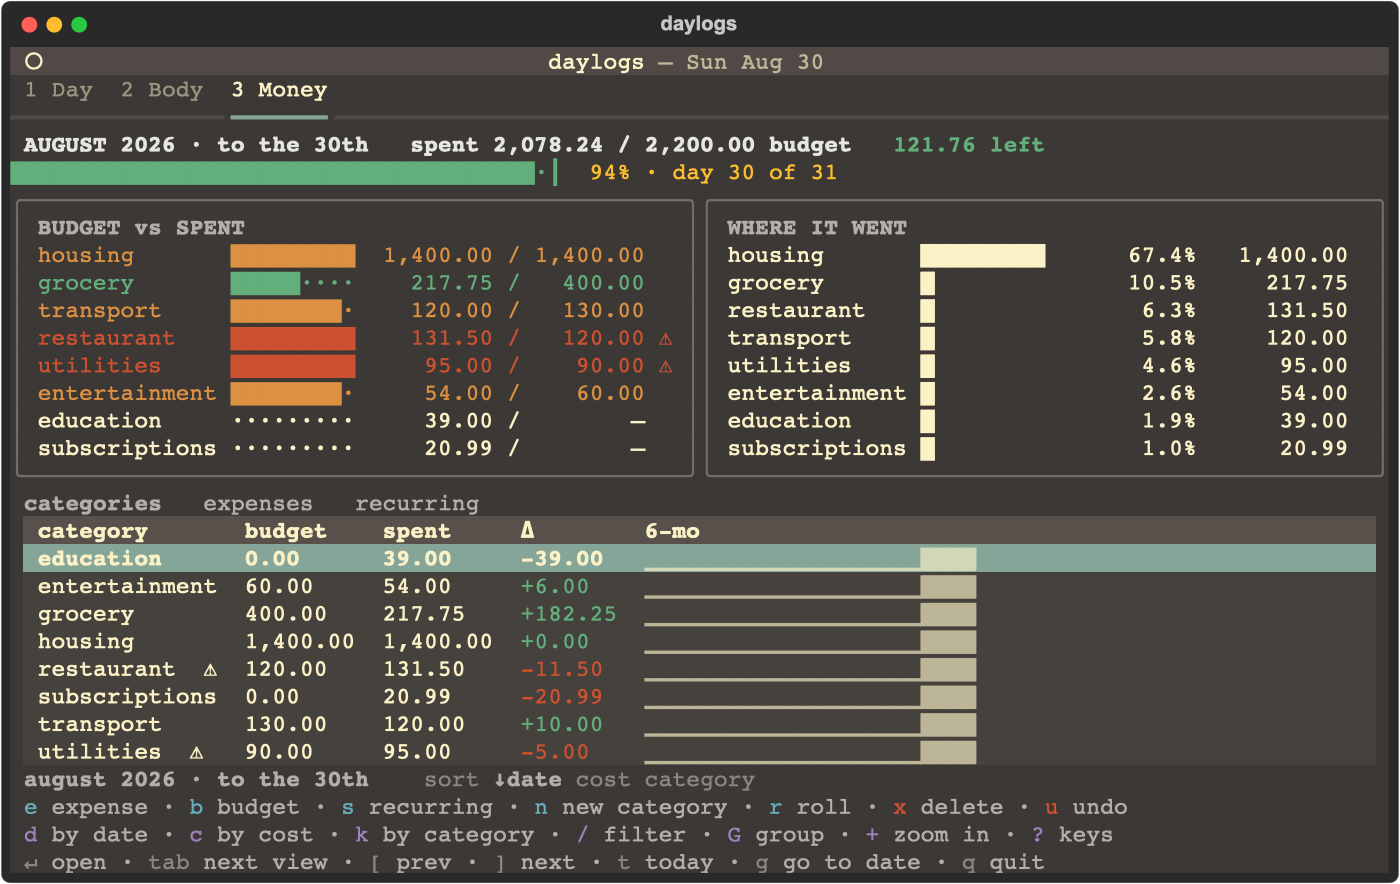
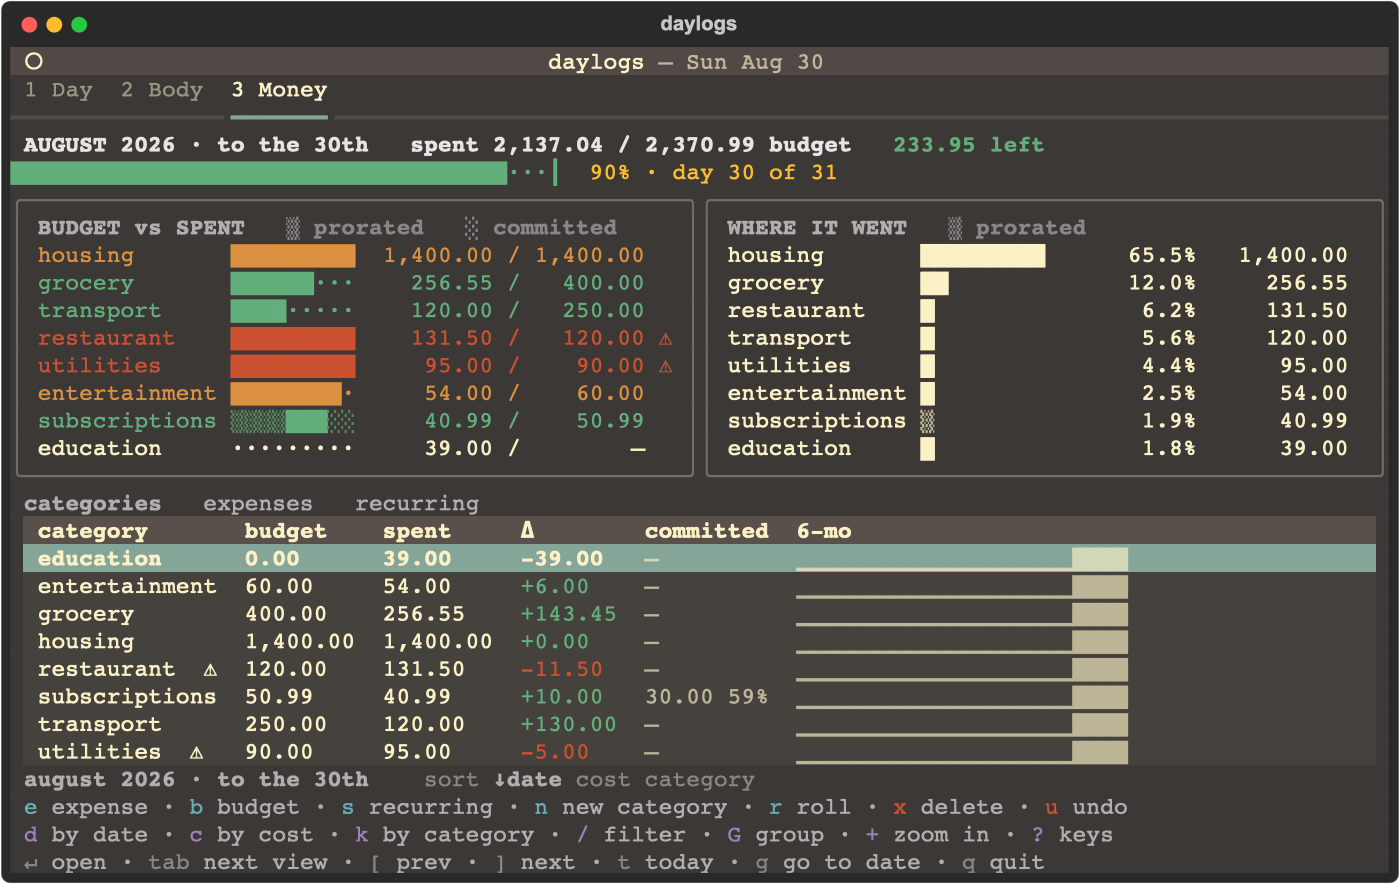
release: 0.6.0 (#60)
Ten PRs since v0.5.0 on 2026-09-14, and nothing was published in between — so
none of it reached the installed `day`, which is a separate `uv tool install`.
That is what made the committed-share work look missing rather than unreleased.

A minor bump, not a patch: new visible behaviour (expense notes displayed, three
new marks on the Money tab, a new categories column) plus a renamed public field
on `CategorySpend`.

Screenshots regenerated — they were four PRs stale, from the 0.5.0 build. The
regeneration mattered less than the fixture: it carried only `monthly` recurring
items, no `#N` charge and no note, so a plain re-shoot would have produced a
*current* screenshot showing none of the marks this release is about. It now
carries an annual item, a `#12` charge, a note, and runs the monthly roll so the
rolled lines share a name with the items the committed join reads.

One number is deliberately contrived and worth knowing why: at 240.00/yr the
fixture spent the subscriptions cap to the cent, and the committed zone correctly
clamps to nothing at a full cap — so the mark this release adds was invisible in
its own screenshot. 360.00/yr leaves the cap headroom.

README now documents the three zones a bar can carry, since `▒` and `░` are not
self-explanatory and the panel legend only names them when one is drawn.

1554 passed under America/Toronto, UTC and Pacific/Kiritimati; ruff clean. The
suite caught a half-done bump on the way — `pyproject.toml` at 0.6.0 against
[…]

diff --git a/tools/screenshots.py b/tools/screenshots.py
@@ -44,7 +44,12 @@ sys.path.insert(0, str(ROOT))
 from daylogs.body import add_food, add_weight  # noqa: E402
 from daylogs.config import load_config  # noqa: E402
 from daylogs.db import connect, ensure_schema  # noqa: E402
-from daylogs.money import add_expense, upsert_budget, upsert_recurring  # noqa: E402
+from daylogs.money import (  # noqa: E402
+    add_expense,
+    roll_month_budgets,
+    upsert_budget,
+    upsert_recurring,
+)
 from daylogs.summary import upsert_report  # noqa: E402
 from daylogs.tui.app import DaylogsApp  # noqa: E402
 
@@ -91,11 +96,25 @@ EXPENSES = [
     ("transport", 120.00, "transit pass", 2),
     ("utilities", 95.00, "hydro", 6),
     ("subscriptions", 20.99, "streaming", 1),
+    # `#12` and a note, so the expenses pane shows a prorated share row and a payment
+    # method — both invisible in a fixture without them.
+    ("subscriptions", 240.00, "Backups annual", 1, 12, None),
+    ("grocery", 38.80, "corner shop", 21, None, "debit"),
     ("entertainment", 54.00, "cinema", 15),
     ("education", 39.00, "book", 22),
 ]
 
-RECURRING = [("Streaming", "subscriptions", 20.99), ("Transit", "transport", 120.00)]
+# `cycle` is per item now: the annual one is what makes the `░ committed` share of a cap
+# visible, which is the whole reason it is in the fixture. A monthly-only fixture renders a
+# Money tab that cannot show three of the marks the app draws.
+RECURRING = [
+    ("Streaming", "subscriptions", 20.99, "monthly"),
+    ("Transit", "transport", 120.00, "monthly"),
+    # 360/yr -> 30.00 a month, which leaves the cap headroom. At 240 the fixture spent
+    # the subscriptions cap to the cent, and the committed zone correctly clamps to nothing
+    # at a full cap — so the mark this release adds was invisible in its own screenshot.
+    ("Backups", "subscriptions", 360.00, "annually"),
+]
 
 BUDGETS = [
     ("Rent", "housing", 1400.00),
@@ -145,23 +164,34 @@ def seed(root: Path):
         at = int(NOW.replace(hour=hour, minute=minute).timestamp())
         add_food(conn, description=description, kcal=kcal, source=source, date=TODAY, at=at)
 
-    for category, amount, description, day in EXPENSES:
+    for row in EXPENSES:
+        # Older rows are 4-tuples; the two that exercise `#N` and `~note` carry two more.
+        category, amount, description, day = row[:4]
+        months = row[4] if len(row) > 4 else None
+        note = row[5] if len(row) > 5 else None
         add_expense(
             conn,
             amount=amount,
             description=description,
             category=category,
             date=f"2026-08-{day:02d}",
+            prepaid_months=months,
+            note=note,
             cfg=cfg,
         )
 
-    for name, category, cost in RECURRING:
-        upsert_recurring(conn, name=name, cost=cost, cycle="monthly", category=category, cfg=cfg)
+    for name, category, cost, cycle in RECURRING:
+        upsert_recurring(conn, name=name, cost=cost, cycle=cycle, category=category, cfg=cfg)
 
     for name, category, amount in BUDGETS:
         upsert_budget(
             conn, month="2026-08", name=name, category=category, amount=amount, cfg=cfg
         )
+    # The roll, so the recurring items have budget lines of their own. Without it the
+    # hand-set caps share no name with any item, the `budget.name = recurring.name` join
+    # finds nothing, and the annual item's committed share cannot render — a fixture that
+    # looks complete while showing none of it.
+    roll_month_budgets(conn, month="2026-08", cfg=cfg)
 
     upsert_report(conn, date=REPORT_DATE, content=REPORT)
     conn.execute("UPDATE report SET generated_at = ?", (GENERATED_AT,))

diff --git a/daylogs/__init__.py b/daylogs/__init__.py
@@ -1,3 +1,3 @@
 """daylogs — weight, food, expenses, and one daily summary."""
 
-__version__ = "0.5.0"
+__version__ = "0.6.0"

diff --git a/README.md b/README.md
@@ -345,6 +345,16 @@ maintenance for the day, then the average and a sparkline over the horizon.
 that category's own cap, so "how close to this limit" is readable per row; the
 second is a ranked share list.
 
+A bar carries up to three zones, because a cap is not one quantity. Spend fills from
+the left, and inside it `▒` marks the part that is a **prorated share** of a payment
+dated in another month — a `#12` charge counts a twelfth here, not all of it. At the
+far end, `░` marks the part of the cap an **annual** subscription has already
+committed, which is the room you cannot reclaim by spending less this month. Both are
+dimmed and both are glyphs, so they survive a terminal with no colour; each is named
+in the panel title, and only when one is actually drawn. The categories pane carries
+the same committed figure with its share of the cap, since an amount alone does not
+say whether a cap is mostly spoken for or barely touched.
+
 ![The Money tab: budget-versus-spent bars beside a ranked share list](https://raw.githubusercontent.com/IngTian/daylogs/main/assets/money.png)
 
 Ranked bars rather than pie charts, deliberately: a terminal has about eight
